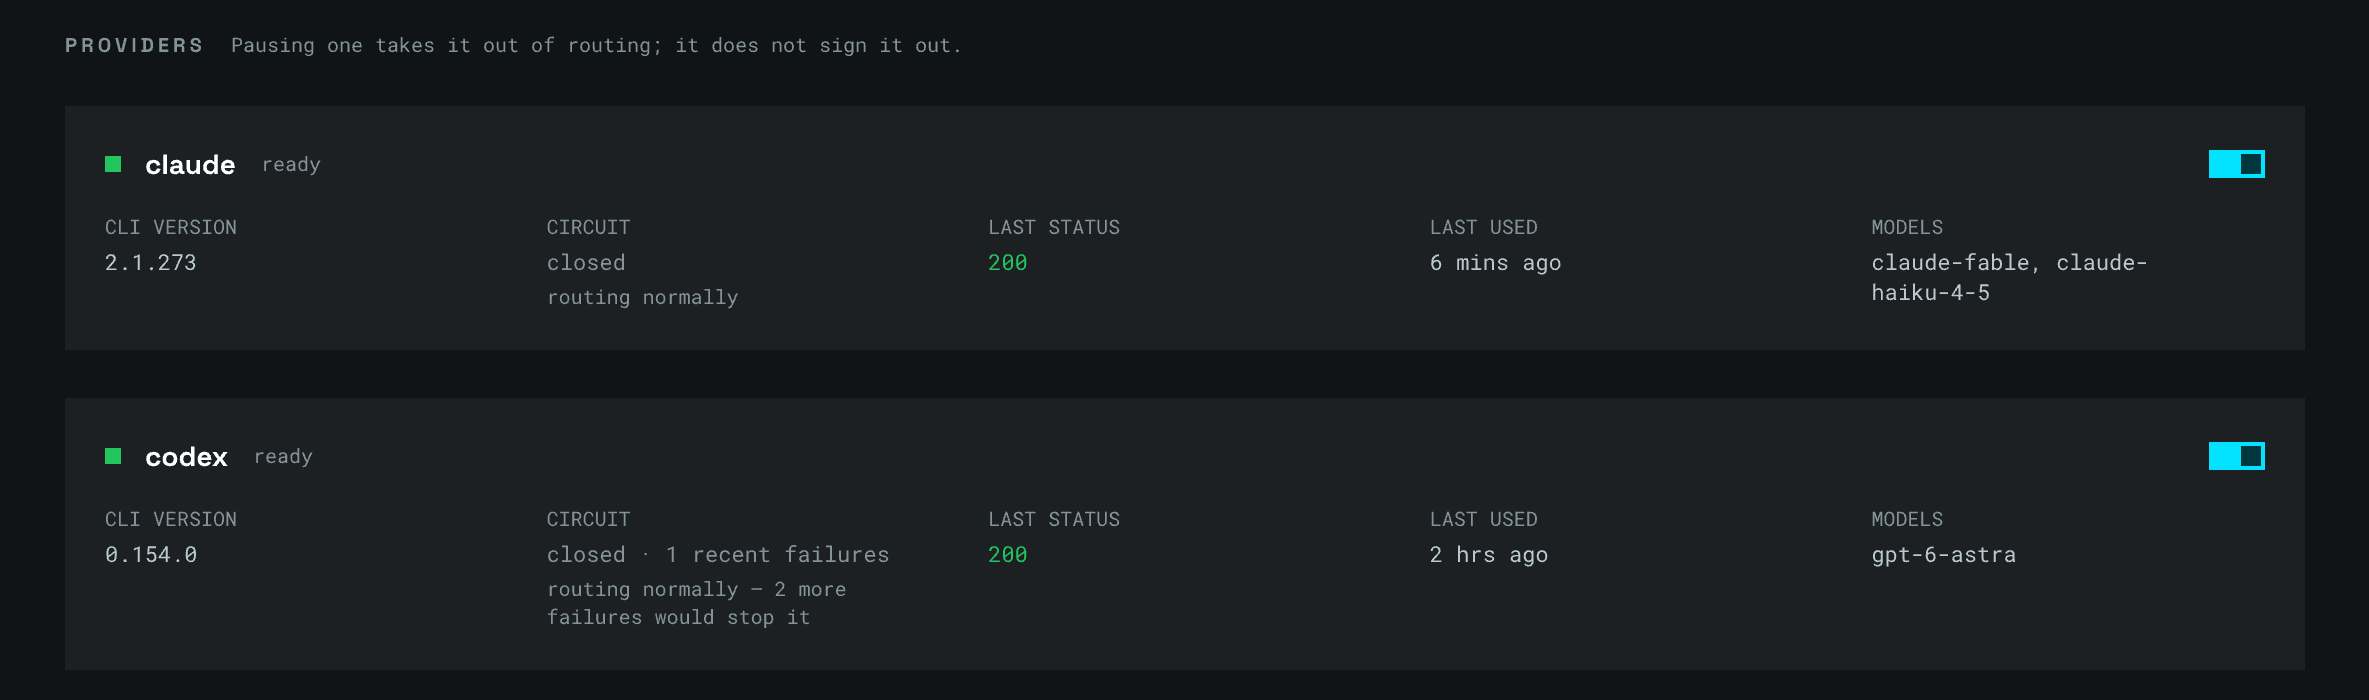
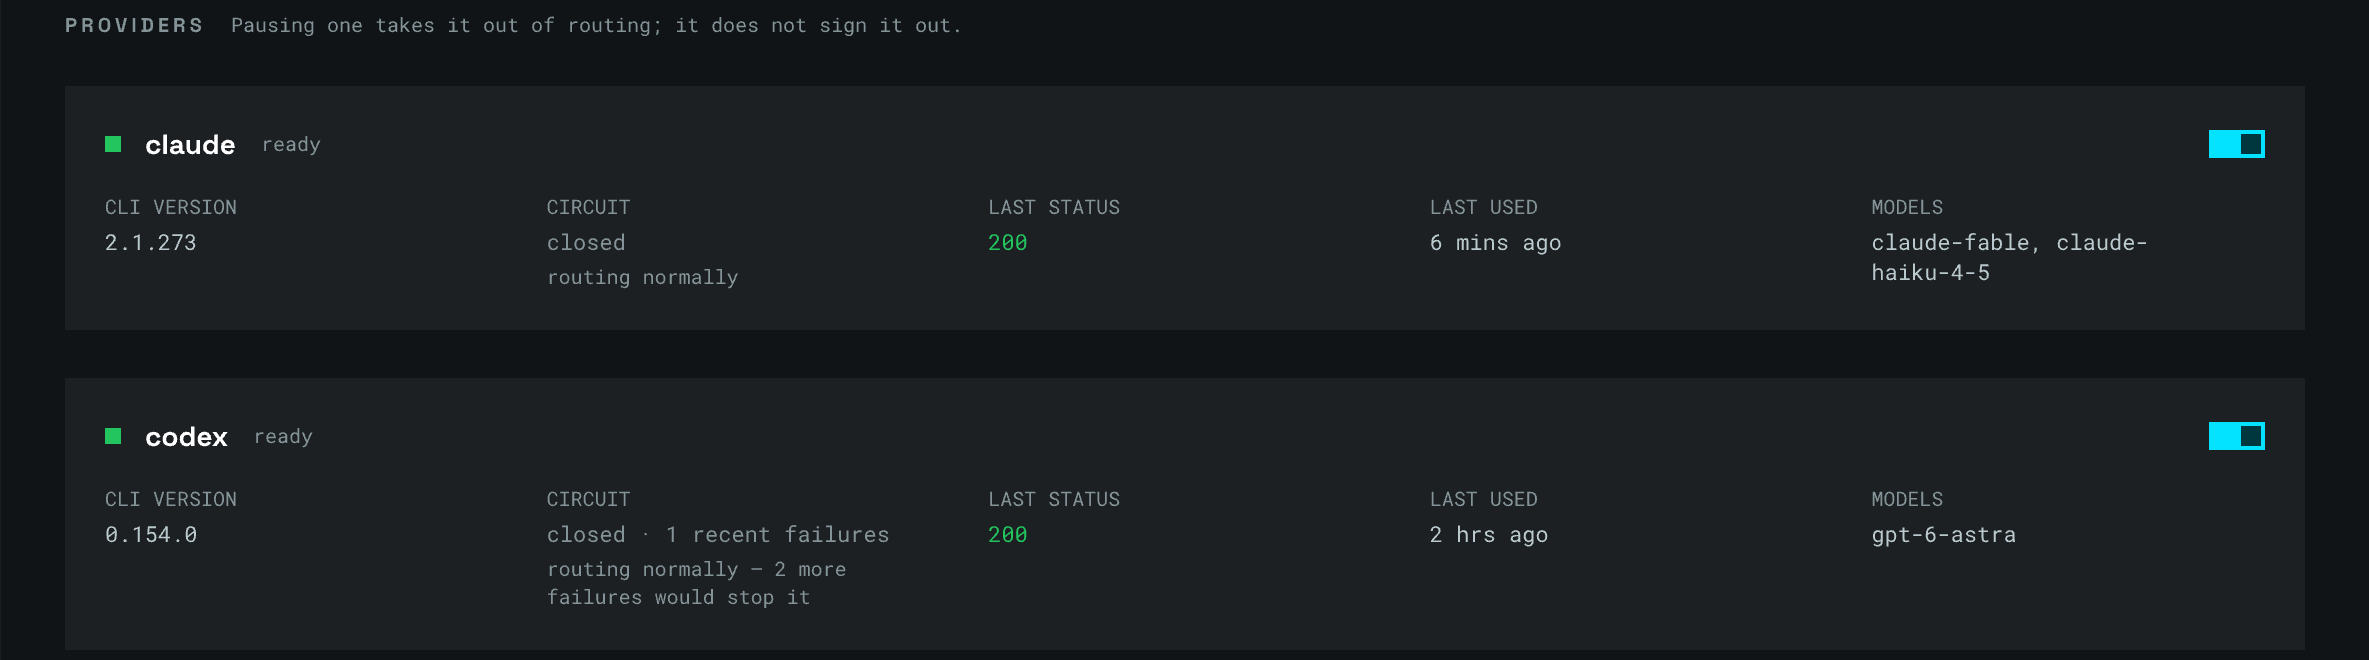
docs: recut the landing crops, and say what to do when it does not work
The landing page was publishing the wrong part of the screen. Its five images
are crops of the committed admin captures, each with a declared region, and
assets/site/README.md warns that a stale region silently publishes the wrong
part — three of the five source artboards changed height this session.

The worst was system.png. Its row promises both provider cards; the providers
now sit at y493-775 and the region landed at y1171-1521, inside the settings
table. So the page was showing a slice of a settings table under a caption
about provider health.

All three are recut from the artboards as they stand, by construction rather
than measured off a picture, and their rows are updated in the same commit.
The Playground region was re-chosen rather than re-measured: its row promised
the controls "beside an answered response", and stacking removed the beside.
It frames the whole exchange now — the controls across one row, the prompt, and
the answer with its status, round trip, tokens and request id.

The README's images are those same exports, so they updated themselves; its
words did not. The Keys alt text and the paragraph under it described a card
that is collapsed now. The "Renders from the design system" line is gone: the
design mirrors the code and is gated on it, so the image is an accurate
description of the admin and where it was produced is a maintenance detail the
reader has no use for.

The site gains the one thing the getting-started audit found genuinely missing.
[…]

diff --git a/site/index.html b/site/index.html
@@ -135,12 +135,12 @@
   pre .p { color:var(--accent); }
   pre .s { color:#7fd6a0; }
 
-  .nots { display:grid; gap:1px; grid-template-columns:repeat(auto-fit, minmax(16rem, 1fr));
+  .nots, .fixes { display:grid; gap:1px; grid-template-columns:repeat(auto-fit, minmax(16rem, 1fr));
           background:color-mix(in srgb, var(--line) 30%, transparent);
           border:1px solid color-mix(in srgb, var(--line) 30%, transparent); }
-  .nots div { background:var(--surface); padding:1.5rem; }
-  .nots strong { display:block; color:#fff; font-weight:500; font-family:"Space Grotesk", sans-serif; margin-bottom:.35rem; }
-  .nots span { color:var(--muted); font-size:.85rem; }
+  .nots div, .fixes div { background:var(--surface); padding:1.5rem; }
+  .nots strong, .fixes strong { display:block; color:#fff; font-weight:500; font-family:"Space Grotesk", sans-serif; margin-bottom:.35rem; }
+  .nots span, .fixes span { color:var(--muted); font-size:.85rem; }
 
   table { width:100%; border-collapse:collapse; font-size:.9rem; margin-top:2rem; }
   th, td { text-align:left; padding:.9rem 1rem; border-bottom:1px solid color-mix(in srgb, var(--line) 50%, transparent); vertical-align:top; }
@@ -292,6 +292,18 @@
   }],
   "usage": { "prompt_tokens": 10, "completion_tokens": 9, "total_tokens": 19 }
 }</pre>
+    </div>
+  </div>
+</section>
+
+<section id="stuck">
+  <div class="wrap reveal">
+    <h2>When it does not work</h2>
+    <div class="fixes">
+      <div><strong>A setting you changed did nothing.</strong><span>The config file is read once, when the service starts. Restart it: <code>sudo systemctl restart shellm</code> on a server, <code>shellm restart</code> on your machine.</span></div>
+      <div><strong>A browser page is blocked by CORS.</strong><span>Calling <code>/v1</code> from a page is off until <code>SHELLM_CORS_ORIGINS</code> names that exact origin — scheme, host and port, no trailing slash, and no wildcard.</span></div>
+      <div><strong>curl works and your app gets 403.</strong><span>That key is scoped to browser origins, and yours is not on its list. A request with no <code>Origin</code> is accepted, which is why curl still works.</span></div>
+      <div><strong>Anything else.</strong><span><code>shellm doctor</code> checks the install and prints the fix beside whatever failed. <code>shellm doctor --live</code> spends one real request to prove the whole path.</span></div>
     </div>
   </div>
 </section>

diff --git a/README.md b/README.md
@@ -149,18 +149,17 @@ comes from the gateway ([ADR-0007](docs/adr/0007-installed-dashboard-is-a-launch
 Every request is logged with what it cost and how long the CLI took, so "which app is burning the
 subscription" is a question with an answer. Nothing about the prompt is stored or inspected.
 
-![API Keys — a freshly created key shown once in full above the two SDK export lines with the key already in them, each with a copy button, and below them a card stating the base URL and the same two lines written against $SHELLM_KEY](design/exports/admin-api-keys-key-created.png)
+![API Keys — a freshly created key shown once in full above the two SDK export lines with the key already in them, each with a copy button, and under them a connection row stating the base URL, then the table of keys with their limits, usage and expiry](design/exports/admin-api-keys-key-created.png)
 
 A key is shown once and never again, so the page shows it beside the two lines that use it — the
-OpenAI base URL carries `/v1`, the Anthropic one must not. The card below states the base URL and
-the same two lines against `$SHELLM_KEY`, which is what a key created months ago still needs.
+OpenAI base URL carries `/v1`, the Anthropic one must not. The connection row below keeps the base URL
+in view and opens onto those same two lines against `$SHELLM_KEY`, which is what a key created
+months ago still needs.
 
-![Playground — a client key field, a format selector set to Anthropic /v1/messages, a model field, a prompt box, and a response panel showing a 200 with round trip, token counts and request id](design/exports/admin-playground-answered.png)
+![Playground — a client key, a format selector set to Anthropic /v1/messages and a model field across one row, a prompt box under them, and the response below at full width showing a 200 with round trip, token counts and request id](design/exports/admin-playground-answered.png)
 
 The playground sends a real request through the same path an app takes, so a key that works here
 works everywhere.
-
-<sub>Renders from the [design system](design/README.md), which mirrors the shipped code.</sub>
 
 ## Models
 

diff --git a/assets/site/README.md b/assets/site/README.md
@@ -12,9 +12,9 @@ anything yet.
 |---|---|---|---|
 | `overview.png` | `admin-overview-default.png` | `0, 0, 2880, 1440` | The whole top band, sidebar included. Exactly 2:1, which is also why it is the OG card. |
 | `request-logs.png` | `admin-request-logs-default.png` | `511, 354, 2369, 845` | Error rate, tokens and cost, then three rows and one expanded detail row. |
-| `api-keys.png` | `admin-api-keys-default.png` | `511, 938, 2369, 456` | The three keys with limits, usage and expiry — and the browser origin the middle one is scoped to. |
-| `playground.png` | `admin-playground-answered.png` | `511, 150, 2369, 480` | The client key, format and model beside an answered response. |
-| `system.png` | `admin-system-default.png` | `511, 2342, 2369, 700` | Both provider cards: CLI version, circuit state, last status, models. |
+| `api-keys.png` | `admin-api-keys-default.png` | `511, 236, 2369, 904` | The connection row with the base URL, then the three keys with limits, usage and expiry — and the browser origin the middle one is scoped to. |
+| `playground.png` | `admin-playground-answered.png` | `511, 140, 2369, 1280` | The whole exchange: key, format and model across one row, the prompt, and the answer below it with its status, round trip, tokens and request id. |
+| `system.png` | `admin-system-default.png` | `511, 900, 2369, 660` | Both provider cards: CLI version, circuit state, last status, models. |
 
 **Why crops and not the whole capture.** A full admin capture is 1,440 logical px wide. Rendered
 in the page's 1,040 px measure it lands at 72%, and in a two-column grid at 17% — which is what
